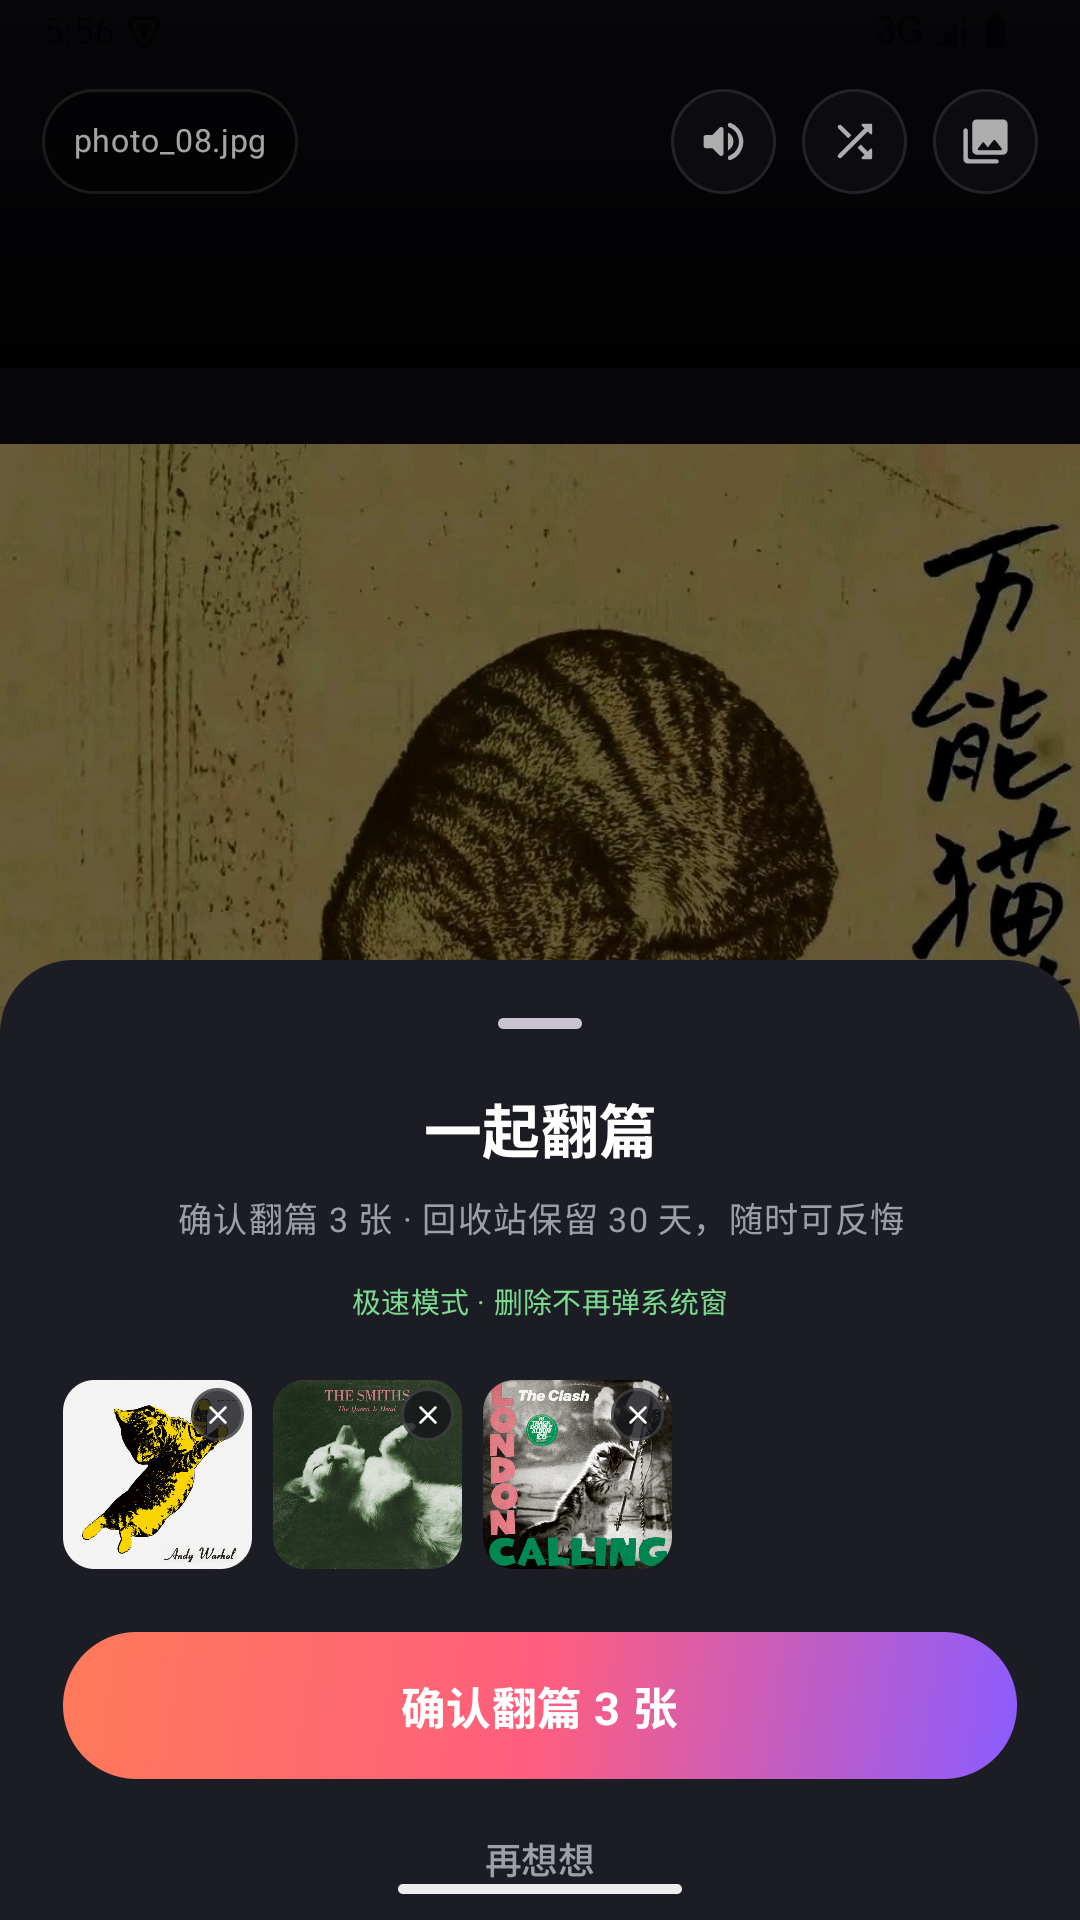
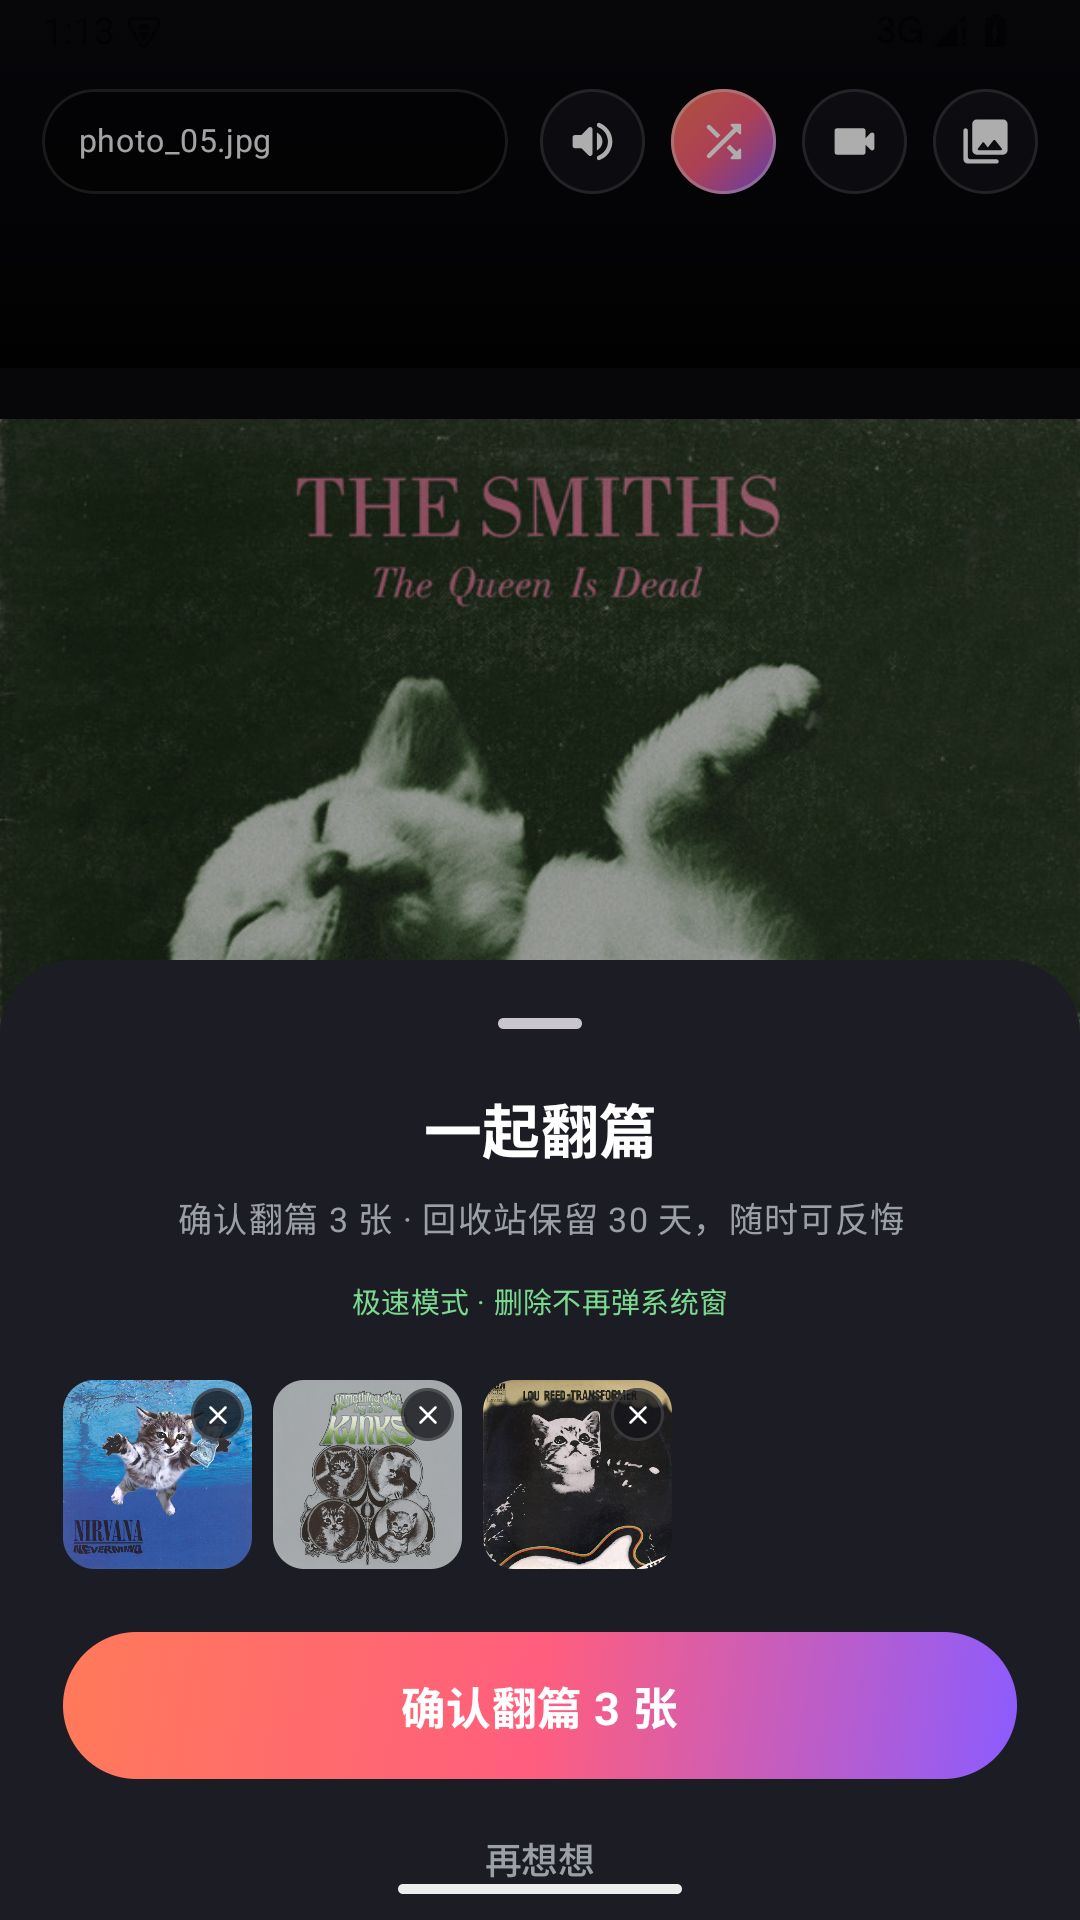
README 补全新功能，截图换用当前版本
- 功能特性补「随机 / 时间顺序」「仅视频模式」「文件名与路径」，
  视频那条补上「全屏按画面真实方向决定横竖」
- 新增「顶栏按钮」对照表，方便对上四个图标各自的作用
- 截图重拍：照片刷流、视频刷流、相册筛选、一起翻篇（旧图还是三个按钮的顶栏），
  另加仅视频模式、文件名与路径两张；首屏与长图展开界面没变，沿用
- 修正过期的 clone 地址（aiibskyler → nuclear-maker）与
  项目结构里的包名路径（com/skylerlin/closure → com/closure）

diff --git a/README.md b/README.md
@@ -20,13 +20,16 @@ Closure 想做的事很小：找一个不困的晚上，把相册从头刷到尾
 
 ## 功能特性
 
-- **竖滑刷相册**：照片、视频、实况照片、GIF 混在一起随机刷，预加载前后各一张
+- **竖滑刷相册**：照片、视频、实况照片、GIF 混在一起刷，预加载前后各一张
+- **随机 / 时间顺序**：顶栏随机按钮切换。默认随机且每次启动都是随机；关掉后按拍摄时间从近到远，和系统相册一致
+- **仅视频模式**：顶栏摄像头按钮一键切换，刷流只留视频（可与相册 / 收藏筛选叠加）；再点一下即恢复照片 + 视频混刷
 - **翻篇（删除）**：点「翻篇」攒一批，最后一次性系统确认删除；删除内容进系统相册回收站，30 天内可反悔
 - **收藏**：心形收藏直接写入系统相册（`MediaStore.IS_FAVORITE`），其他相册 App 也能识别；支持只看收藏
 - **实况照片**：识别各厂商 Motion Photo，提取内嵌视频原地播放
 - **长图展开**：低清整图垫底 + 按内容坐标分块的瓦片式高清解码，滚动时已解区域保持清晰，任意长度不爆内存
-- **视频**：自动播放循环、静音开关、进度条点按/拖动定位、横屏视频全屏自动旋转
-- **照片手势**：双击沉浸全屏、双指缩放、长图双击展开/收起
+- **视频**：自动播放循环、静音开关、进度条点按 / 拖动定位；全屏按画面真实方向决定横竖（竖拍视频不会被转成横屏）
+- **文件名与路径**：顶栏文件名点一下弹出完整文件名和所在目录，可一键复制路径
+- **照片手势**：双击沉浸全屏、双指缩放、长图双击展开 / 收起
 - **极速翻篇（可选）**：授予「所有文件访问」后删除不再弹系统确认框
 - **纯本地**：不联网、不上传，没有任何分析统计
 
@@ -36,9 +39,23 @@ Closure 想做的事很小：找一个不困的晚上，把相册从头刷到尾
 | --- | --- | --- |
 | ![首屏](screenshots/welcome.png) | ![照片刷流](screenshots/feed.png) | ![视频刷流](screenshots/video.png) |
 
-| 长图展开（瓦片高清） | 相册筛选 | 一起翻篇（单张可取消） |
+| 仅视频模式 | 文件名与路径 | 相册筛选 |
 | --- | --- | --- |
-| ![长图展开](screenshots/longpic.png) | ![相册筛选](screenshots/albums.png) | ![一起翻篇](screenshots/confirm.png) |
+| ![仅视频模式](screenshots/videoonly.png) | ![文件名与路径](screenshots/fileinfo.png) | ![相册筛选](screenshots/albums.png) |
+
+| 长图展开（瓦片高清） | 一起翻篇（单张可取消） |
+| --- | --- |
+| ![长图展开](screenshots/longpic.png) | ![一起翻篇](screenshots/confirm.png) |
+
+## 顶栏按钮
+
+| 图标 | 作用 |
+| --- | --- |
+| 喇叭 | 静音开关（视频与实况统一生效，记住偏好） |
+| 交叉箭头 | 随机 / 时间顺序开关，亮起为随机 |
+| 摄像头 | 仅视频模式，亮起为只刷视频 |
+| 相册 | 按相册筛选、只看收藏 |
+| 文件名 | 点一下看完整文件名与所在路径，可复制 |
 
 ## 技术栈
 
@@ -53,7 +70,7 @@ Closure 想做的事很小：找一个不困的晚上，把相册从头刷到尾
 ## 构建与运行
 
 ```bash
-git clone https://github.com/aiibskyler/closure.git
+git clone https://github.com/nuclear-maker/closure.git
 cd closure
 ./gradlew assembleDebug        # 产物在 app/build/outputs/apk/debug/
 ```
@@ -67,7 +84,7 @@ cd closure
 ## 项目结构
 
 ```
-app/src/main/java/com/skylerlin/closure/
+app/src/main/java/com/closure/
 ├── MainActivity.kt        # 入口与权限时序（首屏 → 点开始 → 授权）
 ├── ClosureApp.kt          # 应用级初始化（Coil 解码器注册：GIF/视频帧）
 ├── data/                  # MediaStore 读取、收藏写入、媒体模型
